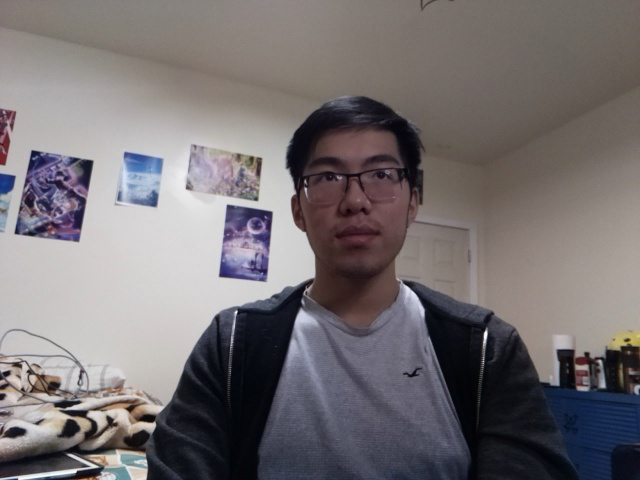
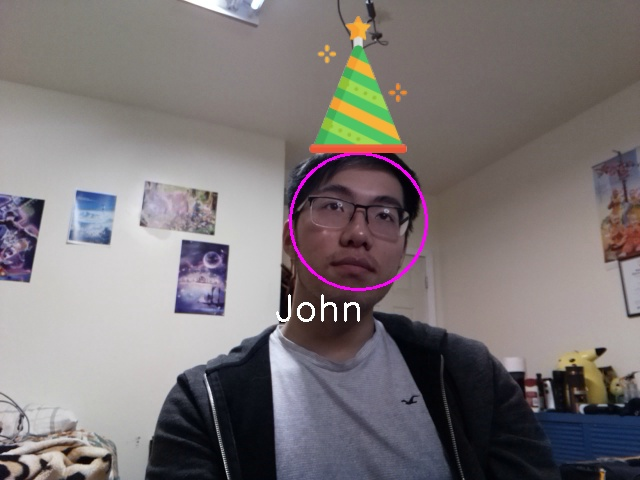
fixed a few bugs

diff --git a/FinalBuildv2/05_sparky_beta.py b/FinalBuildv2/05_sparky_beta.py
@@ -36,6 +36,13 @@ updateText = False
 
 screen.fill(BLACK)
 
+def draw_counter(number):
+	text = fontLg.render(f'{number}', True, WHITE, BLACK)
+	textRect = text.get_rect(center=(0.5*dispW, 0.90*dispH))
+	screen.fill(BLACK, textRect.inflate(20,0))
+	screen.blit(text,textRect)
+	pygame.display.update(textRect)
+
 #============================================================
 #TFT Button Operation
 #============================================================
@@ -478,6 +485,7 @@ try:
 
 			if updateText:
 					updateText = False
+					search = True
 					screen.fill(BLACK, textAreaRect)
 					text = fontLg.render(f'Looking for {instruction.word} . . .', True, WHITE, BLACK)
 					textRect = text.get_rect(center=(0.5*dispW, 0.75*dispH))
@@ -488,6 +496,7 @@ try:
 				if search:
 					foundFace = find_faces(instruction.word, img)
 					if foundFace:
+						print("spotted...")
 						search=False
 
 				elif foundFace:
@@ -496,15 +505,21 @@ try:
 					if stopCondition:
 						foundFace = False
 						search = True
+						instruction.v_search = False
 						print(f"Found {instruction.word}")
 						screen.fill(BLACK, textAreaRect)
 						text = fontLg.render(f'Found {instruction.word}!', True, WHITE, BLACK)
 						textRect = text.get_rect(center=(0.5*dispW, 0.75*dispH))
 						screen.blit(text,textRect)
 						pygame.display.update(textRect)
-						instruction.v_search = False
+
+				counter = int(time.time() - timerStart)
+				if prevCount != counter:
+					prevCount = counter
+					draw_counter(counter)
 			else:
 				findFaceInit = True
+				prevCount = 0
 				instruction.v_tricks = False
 
 		
@@ -519,16 +534,13 @@ try:
 					screen.blit(text,textRect)
 					pygame.display.update(textRect)
 
+				_,_,img = identify_faces(None, img, mode = "party_time")
+
 				if time.time() < timerStart + 10:
-					_,_,img = identify_faces(None, img, mode = "party_time")
 					counter = int(time.time() - timerStart)
 					if prevCount != counter:
 						prevCount = counter
-						text = fontLg.render(f'{counter}', True, WHITE, BLACK)
-						textRect = text.get_rect(center=(0.5*dispW, 0.90*dispH))
-						screen.fill(BLACK, textRect.inflate(20,0))
-						screen.blit(text,textRect)
-						pygame.display.update(textRect)
+						draw_counter(counter)
 
 				else:
 					instruction.v_tricks = False
